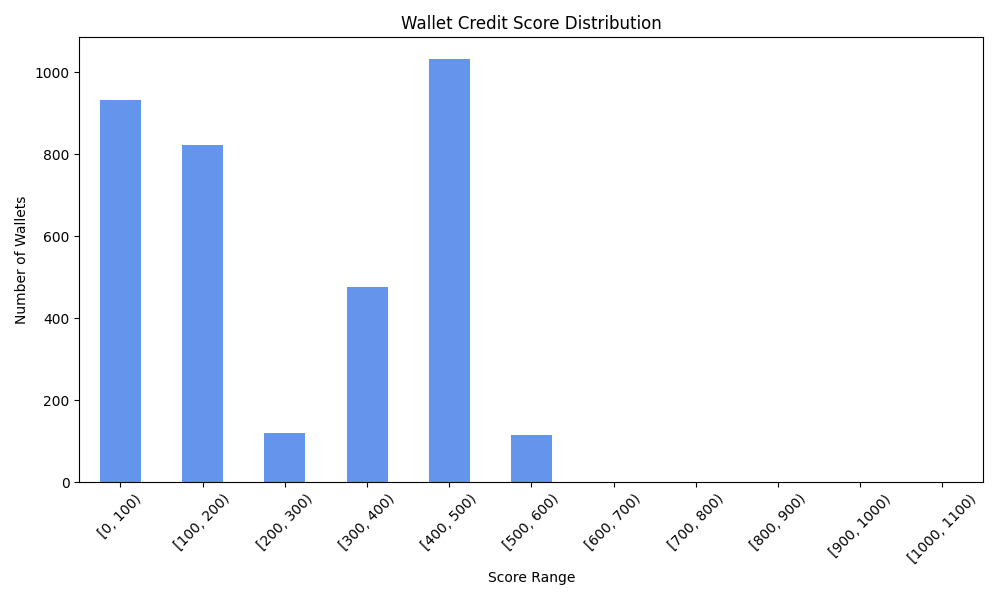
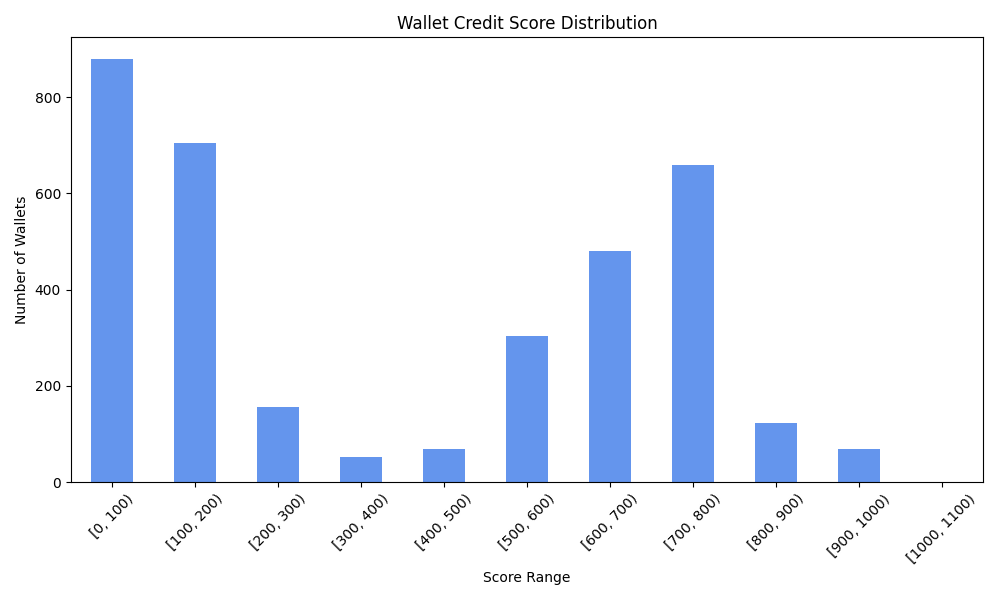
updated README.md and main.py

diff --git a/main.py b/main.py
@@ -1,7 +1,10 @@
 import json
 import pandas as pd
+import joblib
 from src.feature_engineering import build_features
-from src.score_model import compute_score
+
+# Load the trained XGBoost model
+model = joblib.load("models/credit_scoring_model.pkl")  # Adjust path
 
 if __name__ == "__main__":
     # Load wallet JSON data
@@ -11,9 +14,21 @@ if __name__ == "__main__":
     # Build features
     features_df = build_features(wallets)
 
-    # Compute credit scores
-    scored_df = compute_score(features_df)
+    # Save features to CSV for model training
+    features_df.to_csv("engineered_features.csv", index=False)
+    print("Feature engineering complete. Output saved to engineered_features.csv")
+
+
+    """# Filter numeric columns only (XGBoost cannot handle strings/objects)
+    X = features_df.select_dtypes(include=["number"])
+
+    # Predict using the model
+    raw_scores = model.predict(X)
+
+    # Optionally stretch/scale scores to [0, 1000]
+    scores = (raw_scores - raw_scores.min()) / (raw_scores.max() - raw_scores.min()) * 1000
+    features_df["credit_score"] = scores.clip(0, 1000).astype(int)
 
     # Save to CSV
-    scored_df.to_csv("wallet_scores.csv", index=False)
-    print("Scoring complete. Output saved to wallet_scores.csv")
+    features_df.to_csv("wallet_scores.csv", index=False)
+    print("Scoring complete. Output saved to wallet_scores.csv")"""

diff --git a/generate_analysis.py b/generate_analysis.py
@@ -3,7 +3,7 @@ import matplotlib.pyplot as plt
 import os
 
 # --- Load data ---
-data_path = "data/engineered_features_with_scores.csv"
+data_path = "wallet_scores.csv"
 if not os.path.exists(data_path):
     raise FileNotFoundError(f"File not found: {data_path}")
 df = pd.read_csv(data_path)

diff --git a/analysis.md b/analysis.md
@@ -4,17 +4,17 @@
 
 | Score Range | Wallet Count |
 |-------------|---------------|
-| [0, 100) | 931 |
-| [100, 200) | 822 |
-| [200, 300) | 120 |
-| [300, 400) | 475 |
-| [400, 500) | 1033 |
-| [500, 600) | 116 |
-| [600, 700) | 0 |
-| [700, 800) | 0 |
-| [800, 900) | 0 |
-| [900, 1000) | 0 |
-| [1000, 1100) | 0 |
+| [0, 100) | 880 |
+| [100, 200) | 705 |
+| [200, 300) | 156 |
+| [300, 400) | 53 |
+| [400, 500) | 68 |
+| [500, 600) | 303 |
+| [600, 700) | 481 |
+| [700, 800) | 658 |
+| [800, 900) | 123 |
+| [900, 1000) | 69 |
+| [1000, 1100) | 1 |
 
 ![Score Distribution](score_distribution.png)
 
@@ -24,11 +24,11 @@ These wallets demonstrate strong on-chain behavior across multiple indicators su
 
 | wallet_address                             |   transaction_count |   total_volume_eth |   average_transaction_size |   borrow_ratio |   repay_ratio |   supply_ratio |   unique_tokens_transacted |   score |
 |:-------------------------------------------|--------------------:|-------------------:|---------------------------:|---------------:|--------------:|---------------:|---------------------------:|--------:|
-| 0x05c18ffc1c74cb67cb26bb5222aaf3355b74bbc3 |                 584 |        2.41923e+06 |                  4142.52   |      0.0462329 |     0.0256849 |       0.561644 |                          9 |     590 |
-| 0x047a96ef72d7ee6a3f193bdb92e998fb300265df |                 820 |        1.53946e+06 |                  1877.39   |      0.243902  |     0.252439  |       0.218293 |                          8 |     589 |
-| 0x05404b6f8990a4108150366adb572a870b137edc |                 473 |    71535           |                   151.237  |      0.124736  |     0.150106  |       0.490486 |                          8 |     588 |
-| 0x059949cb13386014e50039c5750b5f160b0d2778 |                 369 |   440621           |                  1194.1    |      0.135501  |     0.181572  |       0.403794 |                          8 |     587 |
-| 0x04d9f6ecd792e48a09fa5dc2138baed8e628a7e5 |                1089 |   102353           |                    93.9876 |      0.163453  |     0.267218  |       0.37741  |                          8 |     587 |
+| 0x047a96ef72d7ee6a3f193bdb92e998fb300265df |                 820 |        1.53946e+06 |                  1877.39   |      0.243902  |     0.252439  |       0.218293 |                          8 |    1000 |
+| 0x05c18ffc1c74cb67cb26bb5222aaf3355b74bbc3 |                 584 |        2.41923e+06 |                  4142.52   |      0.0462329 |     0.0256849 |       0.561644 |                          9 |     999 |
+| 0x00aac20f271c4731591cca07913e994d6f1075c0 |                 633 |    97300           |                   153.712  |      0.1406    |     0.278041  |       0.456556 |                          8 |     998 |
+| 0x05404b6f8990a4108150366adb572a870b137edc |                 473 |    71535           |                   151.237  |      0.124736  |     0.150106  |       0.490486 |                          8 |     997 |
+| 0x04d9f6ecd792e48a09fa5dc2138baed8e628a7e5 |                1089 |   102353           |                    93.9876 |      0.163453  |     0.267218  |       0.37741  |                          8 |     997 |
 
 ## 🚨 Bottom 5 Wallets (Low Scores)
 
@@ -36,11 +36,11 @@ These wallets may exhibit weaker creditworthiness due to indicators like low rep
 
 | wallet_address                             |   transaction_count |   total_volume_eth |   average_transaction_size |   borrow_ratio |   repay_ratio |   supply_ratio |   unique_tokens_transacted |   score |
 |:-------------------------------------------|--------------------:|-------------------:|---------------------------:|---------------:|--------------:|---------------:|---------------------------:|--------:|
-| 0x01fafce84d64cb19cbee9c511f7569432e333962 |                   1 |        0.103543    |                0.103543    |              0 |             0 |              1 |                          1 |       5 |
-| 0x0375dafe356324fa45e5993855508b6204279d9e |                   1 |        3.308e-15   |                3.308e-15   |              0 |             0 |              1 |                          1 |       5 |
-| 0x030e371d56829ea5777c07d970484d03920091f9 |                   1 |        0.1         |                0.1         |              0 |             0 |              1 |                          1 |       5 |
-| 0x05190ff26392bd741bb32dab2e595c91f5fb3fbe |                   1 |        0.000980774 |                0.000980774 |              0 |             0 |              1 |                          1 |       5 |
-| 0x05747b9294fdb5d9e4fb24250807142c82311c32 |                   1 |        0.00630417  |                0.00630417  |              0 |             0 |              1 |                          1 |       5 |
+| 0x00418b8ea6c6e2d5676f651bf76a368adb845e91 |                   1 |          0.5       |                  0.5       |              0 |             0 |              1 |                          1 |       0 |
+| 0x05b02f5f36da0730785f75086d55444239a8089d |                   1 |          0.8       |                  0.8       |              0 |             0 |              1 |                          1 |       0 |
+| 0x05c52cd5d423ee6f17334ff54ade74291d89f678 |                   1 |          0.5       |                  0.5       |              0 |             0 |              1 |                          1 |       0 |
+| 0x03ffb5f525be3ca2431cb97415c509566bc42b8a |                   1 |          0.1086    |                  0.1086    |              0 |             0 |              1 |                          1 |       1 |
+| 0x0466c8e551c53ea1d554ea1dbfd32f154ab7f089 |                   1 |          0.0774721 |                  0.0774721 |              0 |             0 |              1 |                          1 |       1 |
 
 ## Summary Observations
 
